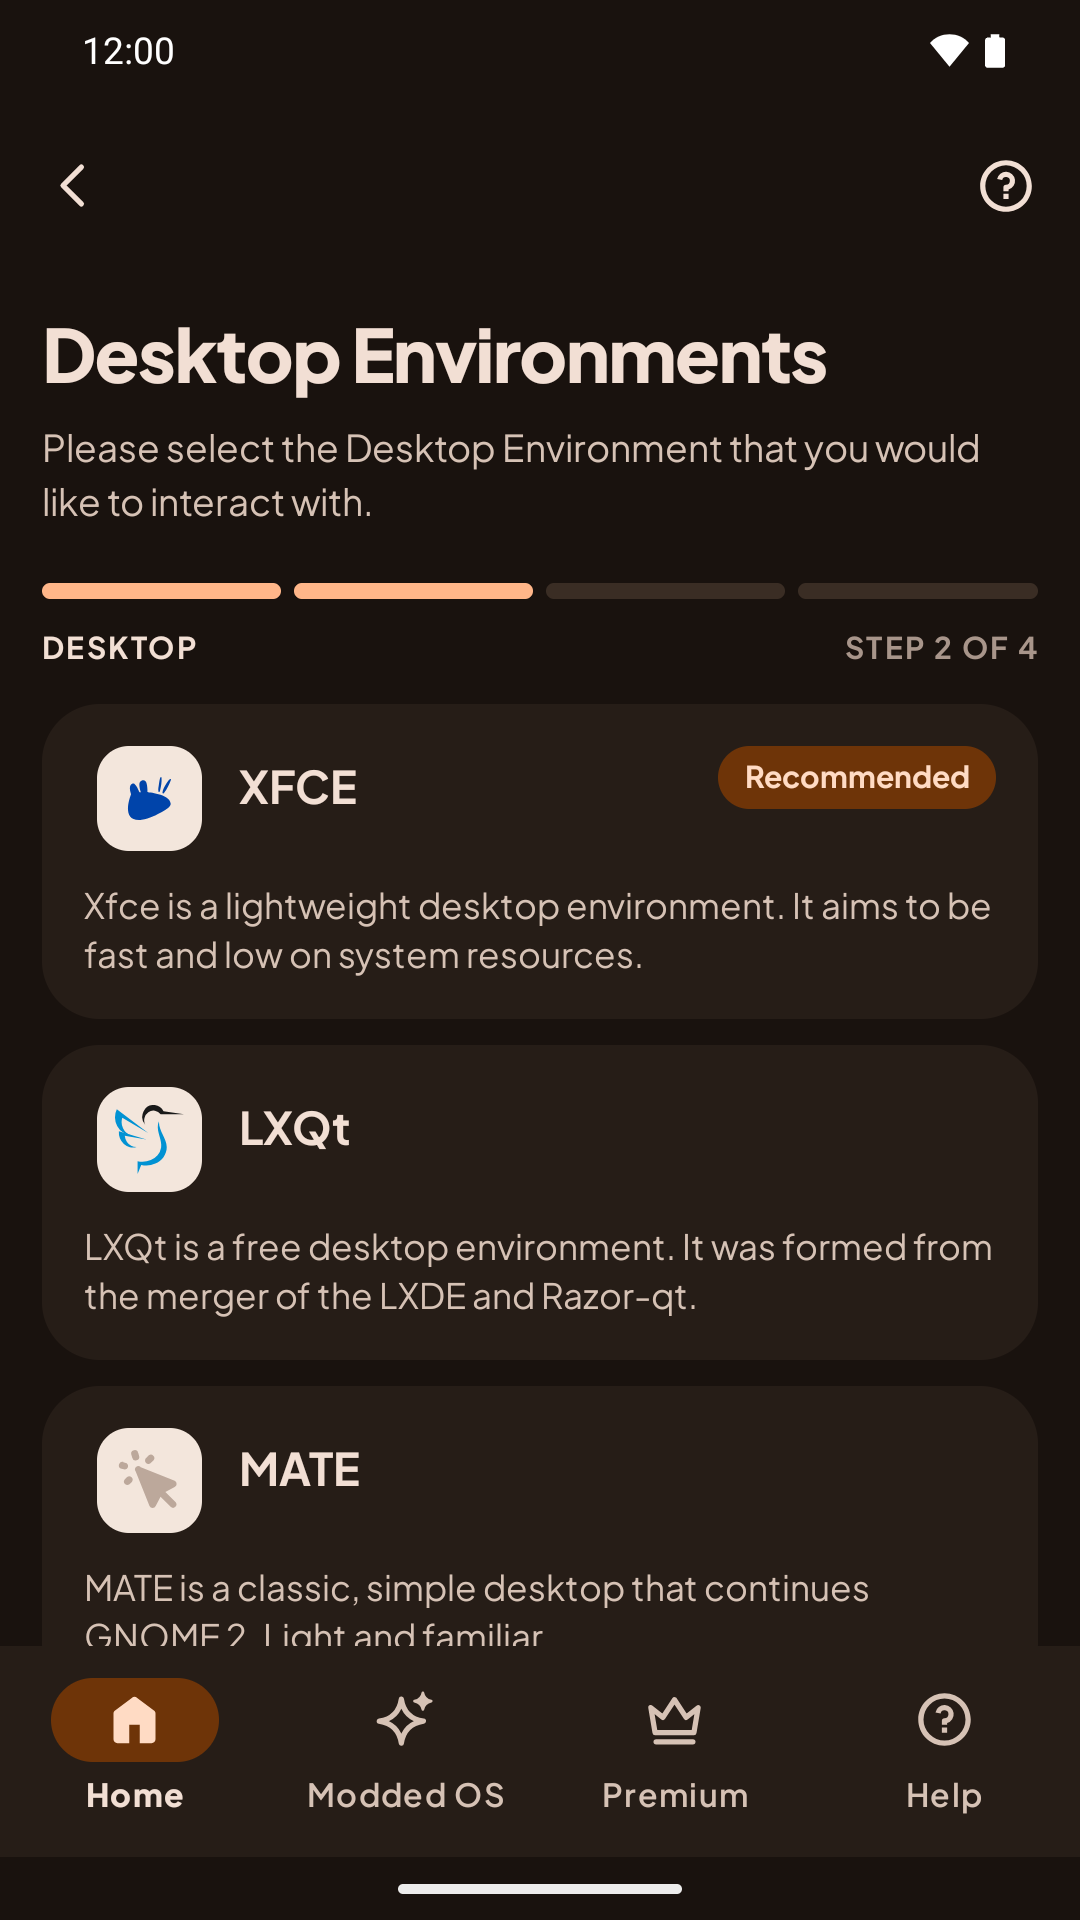
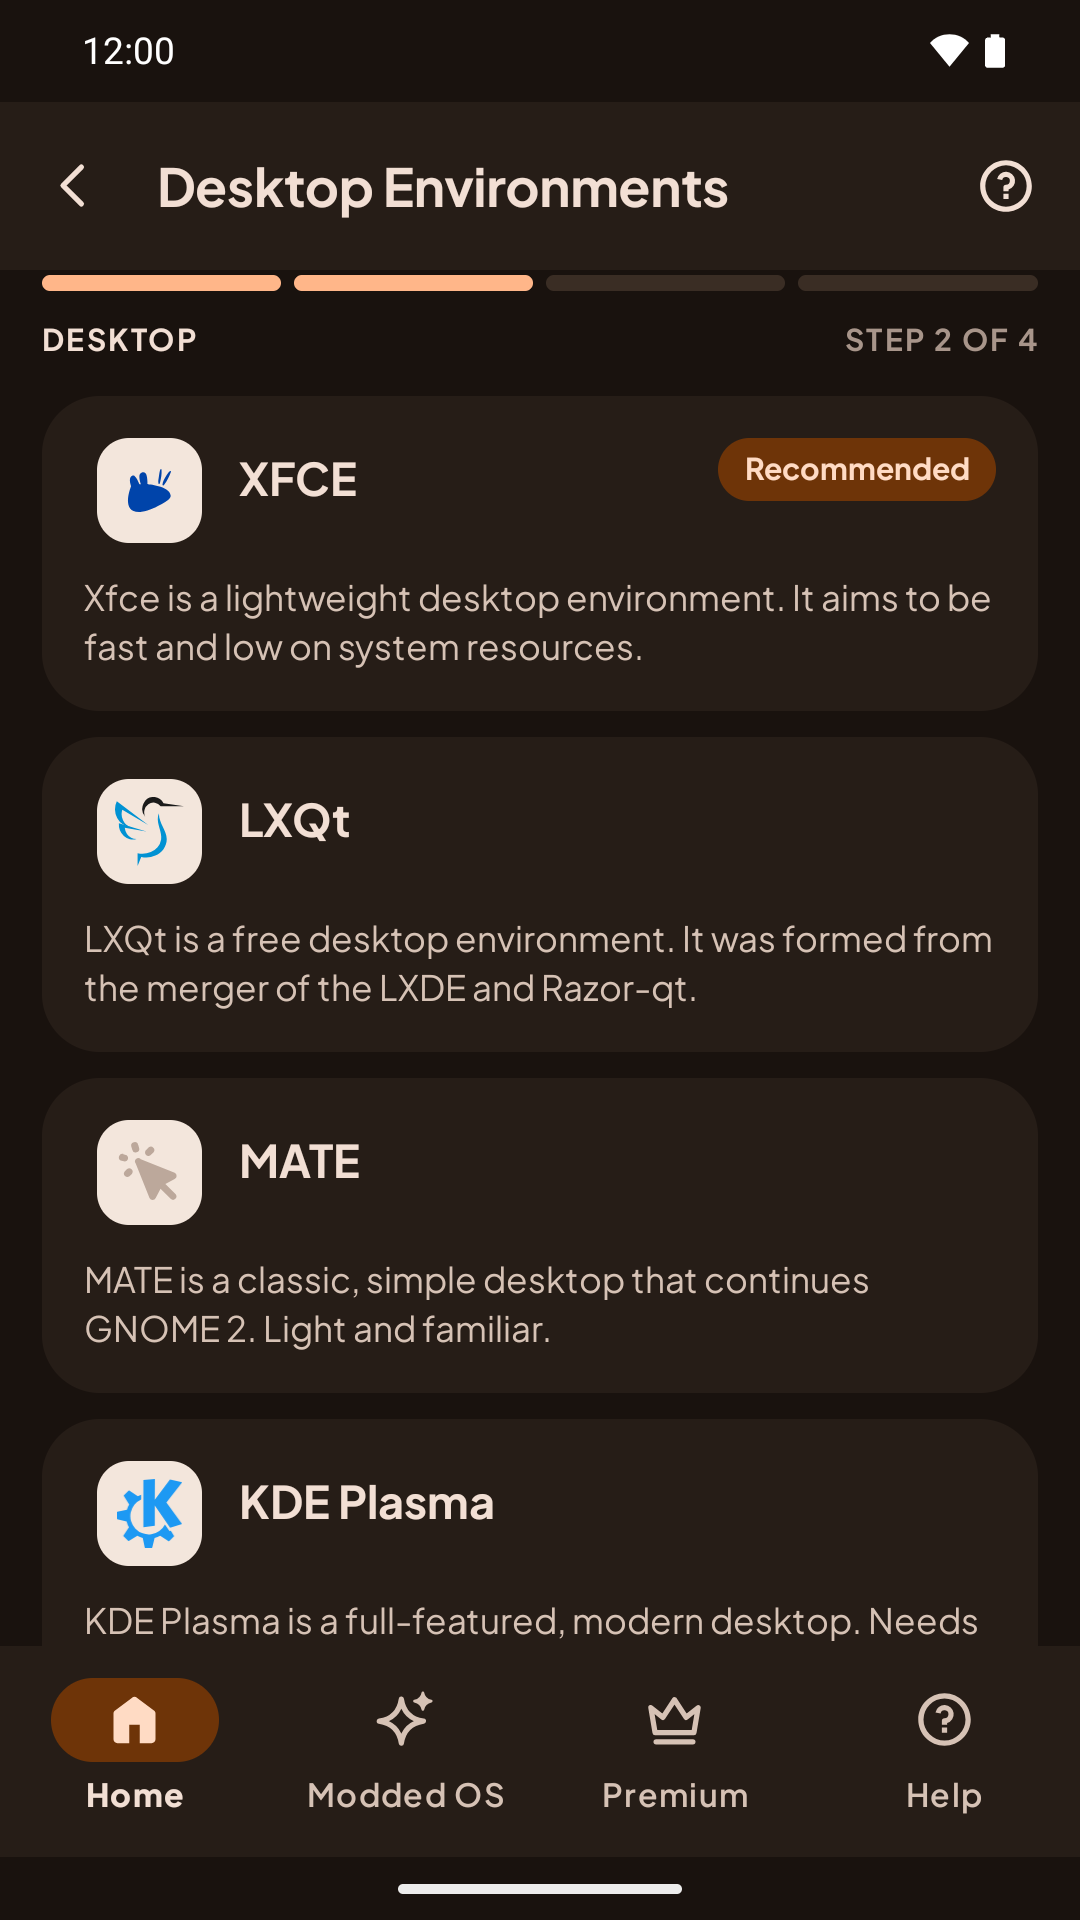
App 10 shots: retakes (v2.0.1 install, Classic only, desktop picker with KDE), create-user and Termux:X11 desktop; premium kept (fake-Play hero); modded first-boot shot dropped

diff --git a/DOCS_SHOTS.md b/DOCS_SHOTS.md
@@ -1,39 +1,32 @@
 # App 10 screenshot shot list
 
-## Capture status (ui-revamp 5b2cd649, Sept 26)
+## Capture status (ui-revamp 5b2cd649, installer v2.0.1, Sept 26)
 
-**Captured and committed:** 20 of 22 files, all 1080 × 1920, 24-bit, no alpha.
-- `app10-home`, `-distro-list`, `-interface-picker`, `-desktop-picker`
-- `app10-termux-step`, `-termux-step-uninstall`, `-install-result`, `-uninstall-sheet`
-- `app10-start-desktop`, `-start-desktop-get-x11`, `-phantom-tip`
-- `app10-modded-editions`, `-modded-editions-owned`, `-modded-termux-step`
-- `app10-premium`, `-premium-owner`, `-delete-account`, `-settings-analytics`, `-modded-classic`
-- `termux-install-running`
+**Committed:** every shot the App 10 pages use, all 1080 × 1920, 24-bit, no alpha.
+- **App:**
+  - `app10-home`, `-distro-list`, `-interface-picker`, `-desktop-picker` (retake, now with KDE Plasma)
+  - `app10-termux-step`, `-termux-step-uninstall`, `-install-result`, `-uninstall-sheet`
+  - `app10-start-desktop`, `-start-desktop-get-x11`, `-phantom-tip`
+  - `app10-modded-editions`, `-modded-editions-owned`, `-modded-classic` (retake: Classic editions only)
+  - `app10-modded-termux-step`, `app10-premium`, `-premium-owner`, `-delete-account`, `-settings-analytics`
+- **Termux:**
+  - `termux-install-running`: retake, release v2.0.1 banner, fresh install.
+  - `termux-create-user`.
+  - `termux-x11-desktop`: XFCE full screen in Termux:X11 with the extra-keys bar hidden. It now replaces `new-installer/termux-x11-xfce-phone.jpg` on Step 3 and in the blog post.
 
-**Still to come:** 2 files.
-- **Termux:** `termux-create-user`, `termux-modded-first-boot`. (`termux-vncserver-start` is dropped.)
+**Kept on purpose:**
+- `app10-premium` is the earlier, scrolled capture. The unscrolled retake's hero reads "Test purchase (fake Play)" and isn't used. Retake from the Play internal-test build (with the Play Store shots).
+- `app10-modded-editions` shows Get pills instead of prices (fake Play). It's fine for the docs; the Play shots come from the internal-test build.
 
-Their `<AppShot>` spots render nothing until the files land.
+**Dropped:**
+- `termux-modded-first-boot`: it needs a real bucket. Its spot is removed; the page points to the free Create your user step instead.
+- `app10-termux-sources`, `app10-modded-edition-unpaid`, `app10-modded-edition-owned`: those screens don't exist in the frozen UI.
+- `termux-vncserver-start`: App 10 uses Termux:X11.
 
-**Dropped** (the screens don't exist in the frozen UI, lead):
-- `app10-termux-sources`: the Termux dialog was removed (android fcd7f13).
-- `app10-modded-edition-unpaid` and `app10-modded-edition-owned`: Modded 2.0 has no edition detail page. An unowned card opens the Google Play purchase sheet; an owned card goes straight to the Termux step.
-- `termux-vncserver-start`: dropped earlier.
-
-**Reshoot suggested:**
-- `termux-install-running` (**before deploy**): the banner reads "Linux on Android · dev" (a dev build), and the command is `--reinstall`, so a "Reinstall Debian 13?" box shows. Retake a fresh install with the release build: `andronix install debian --de xfce`, banner showing the version.
-- `app10-modded-editions`: the Get pills show instead of prices. Prices can't appear under the fake Play used for capture; they need the real Play internal-test build. **Kept for the docs**; the alt text is adjusted.
-- `app10-premium`: it's scrolled past the price and Buy card. **Kept for the docs** (the alt text now says "listing what Premium includes").
-- `app10-desktop-picker`: KDE Plasma is below the fold (XFCE, LXQt, MATE show). Optional: scroll a little so all four show.
-
-**Noted, no reshoot:**
-- `app10-modded-classic` shows the Classic section as **"Archived — yours to keep"** (the docs use that label).
-- **Retake `app10-modded-classic`** (lead): it also shows a "Fedora XFCE · Early access" card. That's a products-api test fixture that leaked into the dev catalog, not a real edition. Launch has five Modded 2.0 editions. The docs don't mention Fedora XFCE; early access is described only generically.
-- `app10-termux-step-uninstall` shows `andronix remove debian --legacy`, so the app's uninstall also removes an old pre-2.0 copy.
-- `app10-premium-owner` shows a "Copy beta command" perk and `andronix update --channel stable`. `--channel stable|beta` is now in the CLI reference.
-- `app10-phantom-tip`: the tip sits on the Start the desktop step, labelled "How to fix it" (the docs text now says so).
-
-For the app-10 screenshot refresh. **Don't capture until the UI freeze**: the app is still changing (M3, motion, in-button loading).
+**Noted:**
+- `app10-termux-step-uninstall` shows `andronix remove debian --legacy`, which is intentional and documented.
+- `app10-premium-owner` shows `andronix update --channel stable`, which is documented.
+- `app10-phantom-tip` says "How to fix it", which the docs text matches.
 
 ## How to capture
 
@@ -82,7 +75,6 @@ These show the installer in Termux. They don't depend on the app UI, so they can
 |---|---|---|---|
 | `termux-install-running.png` | Install with the app (Wait); Install without the app | Termux: the installer's step list mid-install (Debian 13 + XFCE), progress bar visible | Termux, not the app; can be captured now |
 | `termux-create-user.png` | Install with the app (Create your user) | Termux: the first-boot user form (username, password, desktop password) | Termux, can be captured now |
-| `termux-modded-first-boot.png` | Installing Modded OS (steps 4) | Termux: the Modded first boot, replacing the old blue dialog screens (region, keyboard, username, password) | Termux; the page's text for these steps gets rewritten in the app-flow pass |
 | `termux-x11-desktop.png` | (only if a page needs one; none does today: Step 3 uses `new-installer/termux-x11-xfce-phone.jpg`) | Termux:X11 showing the XFCE desktop, 1080 × 1920, demo-mode status bar | Replaces the dropped `termux-vncserver-start` (App 10 uses Termux:X11; VNC is only an "Other ways" link) |
 
 **Already current, keep:**
